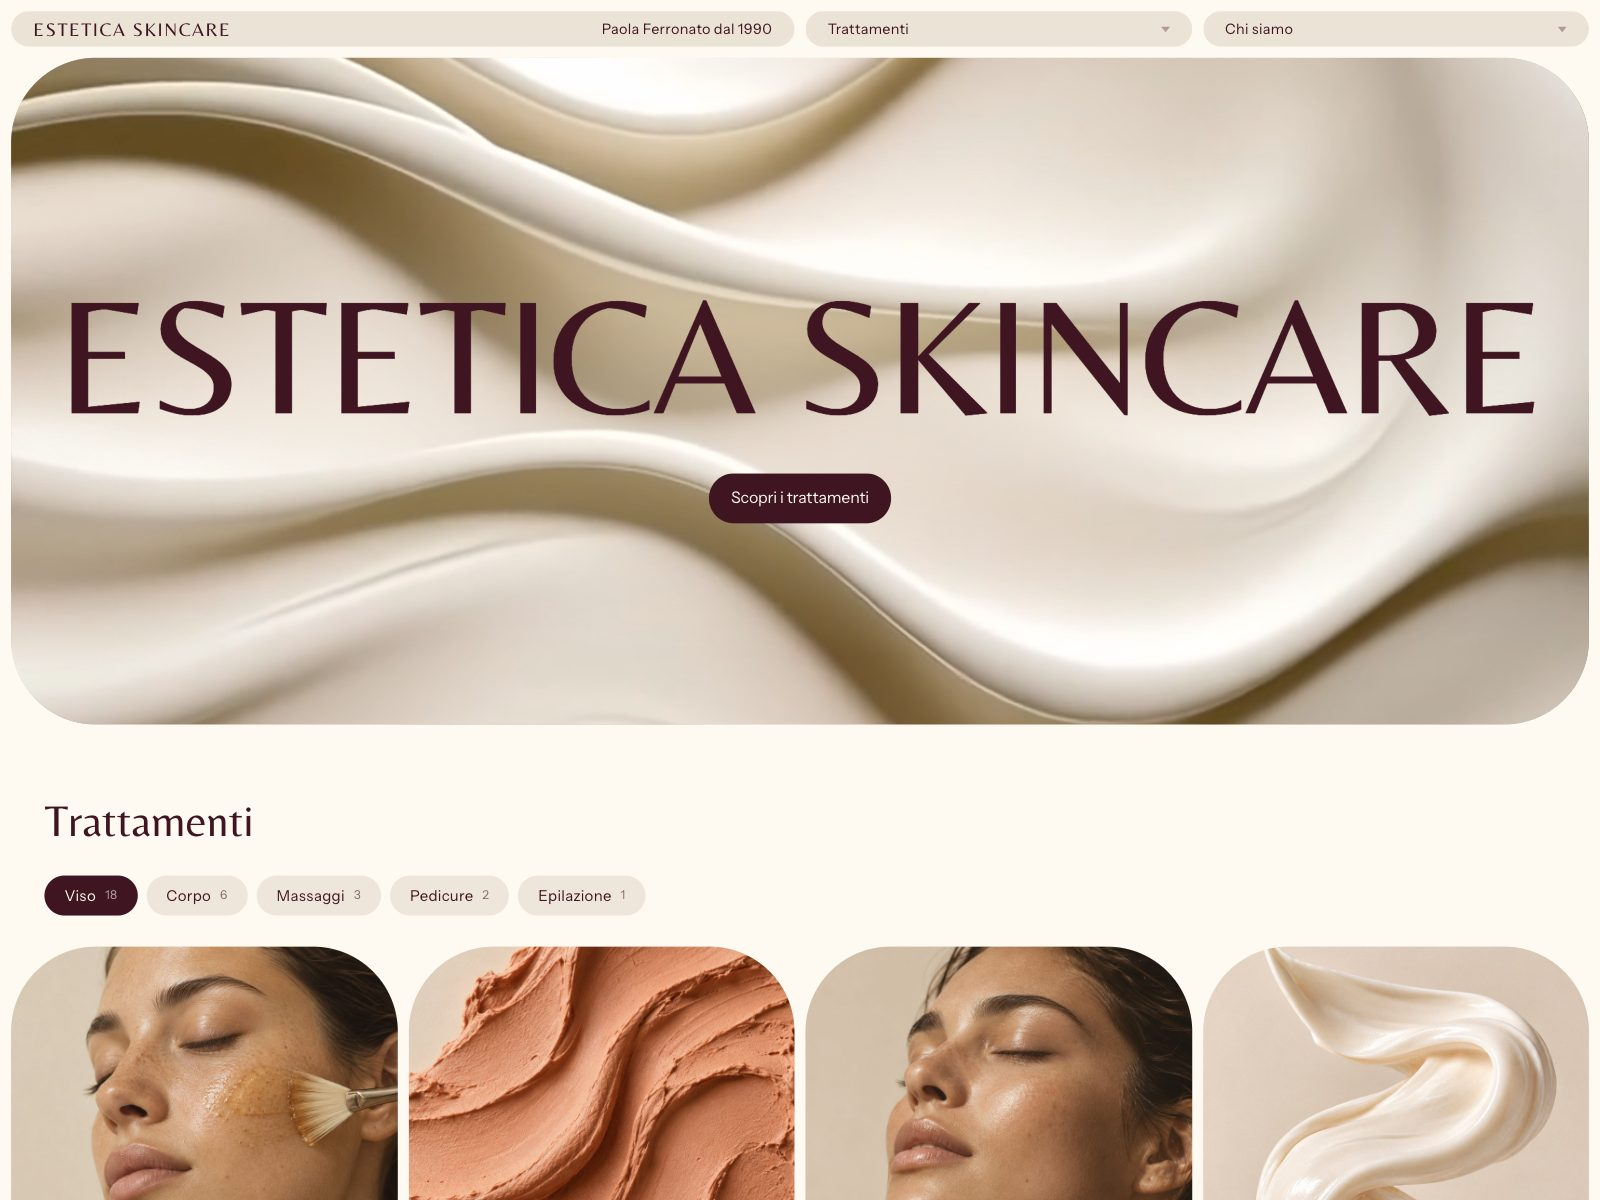
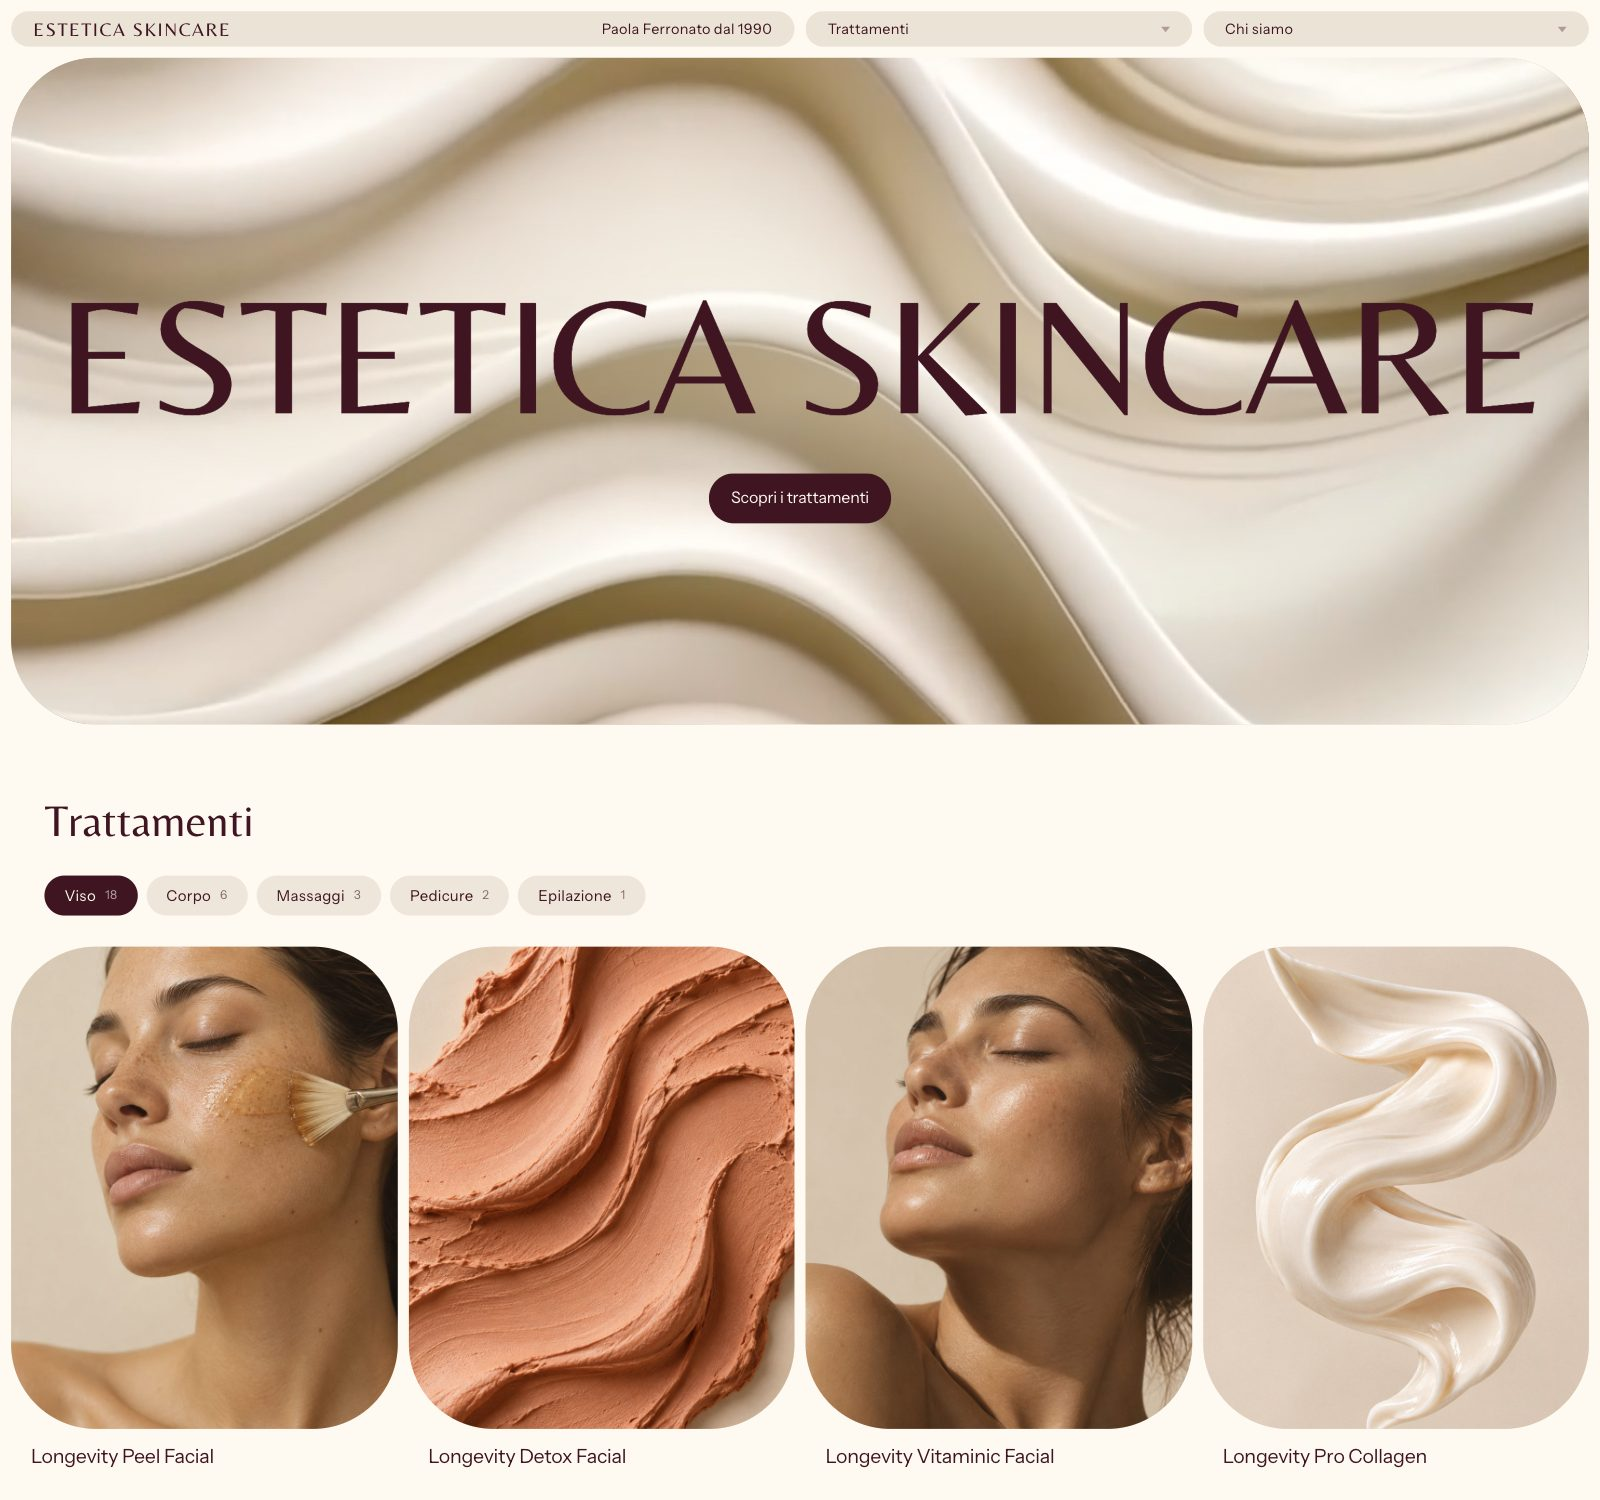
Replay the work intro on every load and show covers whole in tiles
The intro of work/ now plays on every reload and whenever work is entered
from outside, such as the desktop folder. It still skips when coming back
from a project or the index inside work, so BACK stays immediate. Only
work/ changes: the rest of the site keeps its own intros.

Tile covers are 125% of the tile's height for the parallax, so 4:3
screenshots were scaled up and cut on both sides. Covers are now shot at
16:15 with a bit more page above and below: they fill the tile's width,
and the band shown at rest is the intended frame.

The IN EVIDENZA nav item is gone: it only repeated the wordmark.

diff --git a/work/progetti.js b/work/progetti.js
@@ -10,7 +10,10 @@
      descrizione due-tre righe; puo' contenere <a href="...">link</a>
      tag         lista
      link        [{ etichetta, href }] — se vuota, la colonna LINK sparisce
-     cover       la foto del tile in home e la prima della pagina
+     cover       la foto del tile in home e la prima della pagina. E' 16:15
+                 (1600x1500), non 4:3: nel tile la copertina e' alta il 125%
+                 per il parallax, e solo cosi' riempie la larghezza senza
+                 tagli ai lati. Si vede la fascia centrale (l'80% dell'altezza).
      media       le altre; la prima compare accanto al tile (desktop) o sopra
                  (mobile) quando e' al centro. "etichetta" e' la didascalia
                  sotto l'immagine nella pagina, da 810px in su.
@@ -44,7 +47,7 @@ window.WORK = {
         "Il sito di un centro estetico a San Giuseppe di Cassola, aperto dal 1990: trattamenti viso e corpo, tecnologie, e prenotazione su WhatsApp o al telefono.",
       tag: ["Sito web", "Beauty", "Centro estetico"],
       link: [{ etichetta: "VISITA", href: "https://esteticaskincare.it/" }],
-      cover: { src: "assets/photos/estetica-skincare/cover.jpg", w: 1600, h: 1200, alt: "Homepage di Estetica Skincare: il nome in grande su una crema avorio, sotto l'elenco dei trattamenti" },
+      cover: { src: "assets/photos/estetica-skincare/cover.jpg", w: 1600, h: 1500, alt: "Homepage di Estetica Skincare: il nome in grande su una crema avorio, sotto l'elenco dei trattamenti" },
       media: [
         { src: "assets/photos/estetica-skincare/01.jpg", w: 1600, h: 1200, etichetta: "TRATTAMENTI", alt: "Griglia dei trattamenti viso, ognuno con una foto" },
         { src: "assets/photos/estetica-skincare/02.jpg", w: 1600, h: 1200, etichetta: "TRATTAMENTI", alt: "Altri trattamenti della griglia, tra volti e texture di creme" },
@@ -61,7 +64,7 @@ window.WORK = {
         "Il sito di Fase Mechanical Engineering: centrifughe, impianti e trituratori per il truciolo metallico, con una pagina per ogni prodotto.",
       tag: ["Sito web", "Industria", "Catalogo"],
       link: [{ etichetta: "VISITA", href: "https://fasemec.com/" }],
-      cover: { src: "assets/photos/fase/cover.jpg", w: 1600, h: 1200, alt: "Homepage di Fase: una centrifuga in primo piano e il titolo Truciolo asciutto, fluido in circolo" },
+      cover: { src: "assets/photos/fase/cover.jpg", w: 1600, h: 1500, alt: "Homepage di Fase: una centrifuga in primo piano e il titolo Truciolo asciutto, fluido in circolo" },
       media: [
         { src: "assets/photos/fase/01.jpg", w: 1600, h: 1200, etichetta: "TECNOLOGIA", alt: "Primo piano di una catena di trasmissione con il marchio Fase" },
         { src: "assets/photos/fase/02.jpg", w: 1600, h: 1200, etichetta: "PRODOTTI", alt: "Ogni reparto ha il suo truciolo: le tre famiglie di prodotto, centrifughe, trituratori e impianti" },
@@ -78,7 +81,7 @@ window.WORK = {
         "Il sito di Vibrolux, trattamenti superficiali dei metalli a Torino: le lavorazioni, lo stabilimento e il percorso dal pezzo grezzo al controllo finale.",
       tag: ["Sito web", "Industria", "Next.js"],
       link: [{ etichetta: "VISITA", href: "https://acci4i0.github.io/vibrolux/" }],
-      cover: { src: "assets/photos/vibrolux/cover.jpg", w: 1600, h: 1200, alt: "Homepage di Vibrolux: una linea di lavorazione e il titolo La finitura che si misura" },
+      cover: { src: "assets/photos/vibrolux/cover.jpg", w: 1600, h: 1500, alt: "Homepage di Vibrolux: una linea di lavorazione e il titolo La finitura che si misura" },
       media: [
         { src: "assets/photos/vibrolux/01.jpg", w: 1600, h: 1200, etichetta: "AZIENDA", alt: "Testo sull'azienda accanto a pezzi metallici e allo stabilimento" },
         { src: "assets/photos/vibrolux/02.jpg", w: 1600, h: 1200, etichetta: "LAVORAZIONI", alt: "Primi piani di pezzi metallici e dello stabilimento" },

diff --git a/work/index.html b/work/index.html
@@ -8,13 +8,22 @@
   <link rel="icon" href="../assets/favicon.svg" type="image/svg+xml">
   <link rel="apple-touch-icon" href="../assets/favicon-180.png">
   <!-- prima del primo disegno: decide se l'intro parte, cosi' nav e colonna
-       non lampeggiano visibili per un fotogramma -->
+       non lampeggiano visibili per un fotogramma.
+       Parte a ogni ricarica e ogni volta che si entra da fuori (la cartella
+       sul desktop, un link). Non parte tornando qui da un progetto o
+       dall'indice di work: li' INDIETRO deve essere immediato.
+       (Nel riferimento invece si vede una sola volta per sessione.) -->
   <script>
     (function (h) {
-      var played = false;
-      try { played = sessionStorage.getItem("andre-work-intro") === "1"; } catch (e) {}
       var rm = window.matchMedia("(prefers-reduced-motion: reduce)").matches;
-      h.setAttribute("data-intro", !played && !rm ? "running" : "skip");
+      var nav = performance.getEntriesByType && performance.getEntriesByType("navigation")[0];
+      var reload = nav && nav.type === "reload";
+      var inside = false;
+      try {
+        var r = new URL(document.referrer);
+        inside = r.origin === location.origin && r.pathname.indexOf(location.pathname.replace(/[^/]*$/, "")) === 0;
+      } catch (e) {}
+      h.setAttribute("data-intro", !rm && (reload || !inside) ? "running" : "skip");
       if ("onpagereveal" in window) h.setAttribute("data-vt-capable", "");
     })(document.documentElement);
   </script>

diff --git a/work/home.js b/work/home.js
@@ -15,7 +15,6 @@
 
   var W = window.WORK, Work = window.Work;
   var html = document.documentElement;
-  var INTRO_KEY = "andre-work-intro";
 
   /* ---------- markup ---------- */
 
@@ -154,9 +153,9 @@
   });
   var q = A.length;
 
-  var played = false;
-  try { played = sessionStorage.getItem(INTRO_KEY) === "1"; } catch (_) {}
-  var intro = !played && !reduced;
+  // se l'intro parte lo decide lo script in <head> di index.html, prima del
+  // primo disegno; qui si legge e basta
+  var intro = !reduced && html.getAttribute("data-intro") === "running";
 
   html.setAttribute("data-intro", intro ? "running" : "skip");
   html.setAttribute("data-intro-live", "");
@@ -288,7 +287,6 @@
         ui = true;
         root.setAttribute("data-ui", "");
         html.removeAttribute("data-intro");
-        try { sessionStorage.setItem(INTRO_KEY, "1"); } catch (_) {}
         window.dispatchEvent(new Event(Work.INTRO_DONE));
       }
       setActive(nearest);

diff --git a/work/work.js b/work/work.js
@@ -47,7 +47,6 @@
       '<nav class="nav fixed-full" aria-label="Principale">' +
         '<div class="nav-row nav-top">' +
           '<a class="nav-item nav-wordmark hit" href="./"' + (current === "home" ? ' aria-current="page"' : "") + ">" + navItem(esc(W.nome), 0) + "</a>" +
-          '<a class="nav-item bar-only hit" href="./"' + (current === "home" ? ' aria-current="page"' : "") + ">" + navItem("IN EVIDENZA", 1) + "</a>" +
           '<a class="nav-item hit" href="progetti.html"' + (current === "index" ? ' aria-current="page"' : "") + ">" + navItem("PROGETTI", 2) + "</a>" +
         "</div>" +
         '<div class="nav-row nav-bottom">' +

diff --git a/work/work.css b/work/work.css
@@ -108,7 +108,6 @@ html[data-scroll-lock], html[data-scroll-lock] body {
   }
   .nav-top { top: 0; padding-top: max(var(--margin), env(safe-area-inset-top)); }
   .nav-bottom { bottom: 0; padding-bottom: max(var(--margin), env(safe-area-inset-bottom)); }
-  .nav .bar-only { display: none; }
 }
 
 /* una voce = una riga che sale da dentro una maschera */
